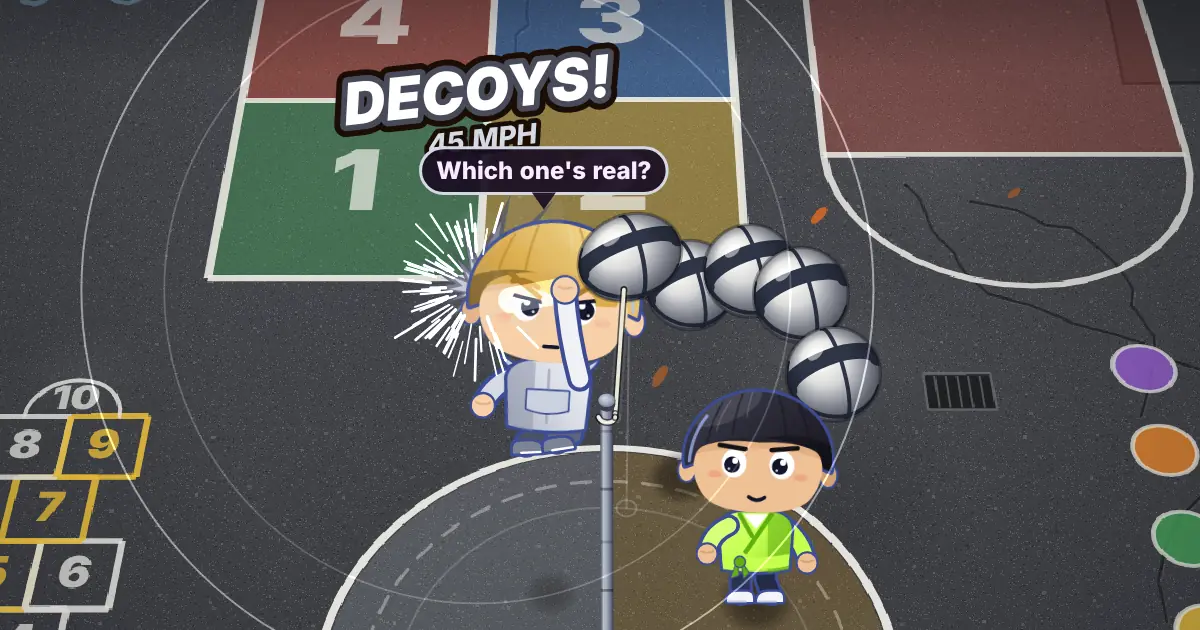
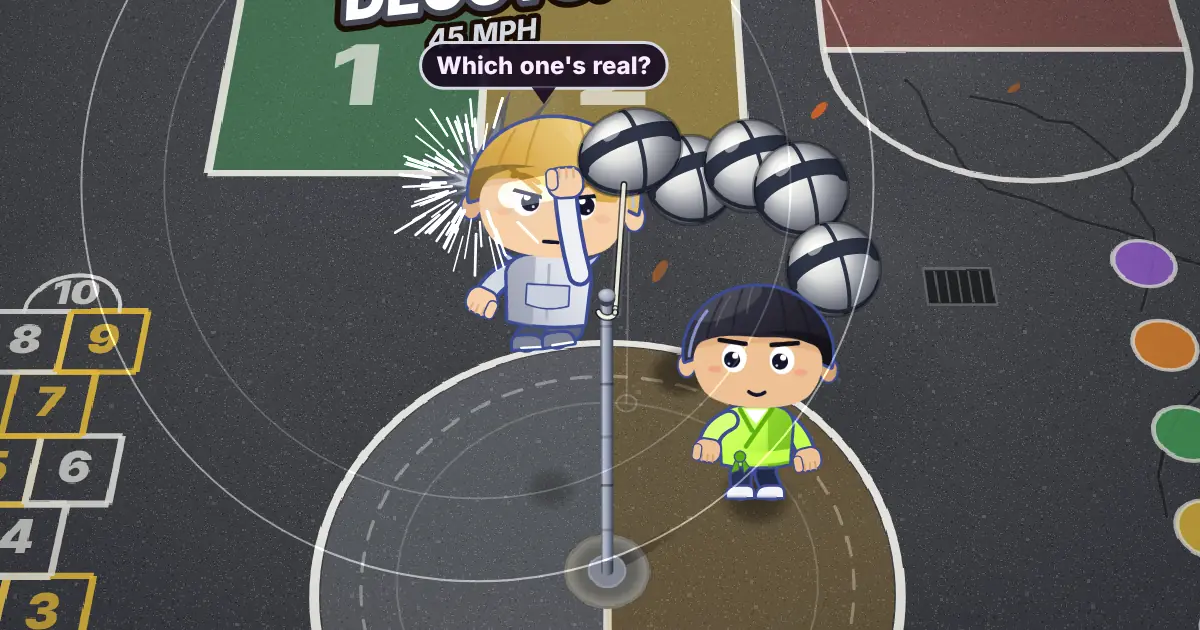
Tether Ball demo: no salute in any victory scene, and a real hand
Harper's victory flick put her arm out straight and raised, chin up,
which looked like a Nazi salute: she brushes her shoulder off now.
Adaeze's salute, Rei's held-out palm and Caleb's guard are reworked
too, and raised fists bow at the elbow. Every character's hand is a
squared fist wider than the wrist instead of a round ball with a
crease. The page is the vault's prod.html (PR #666), byte-identical,
and the four pictures are retaken with the new hands. No copy change.

Claude-Session: https://claude.ai/code/session_01WnTabX46DD64MD9gdE987u

diff --git a/public/games/tether-ball/index.html b/public/games/tether-ball/index.html
@@ -10247,19 +10247,29 @@ function createNinja(doc, look) {
   };
 
   // ───────────────────────── the rig, in sheet units ─────────────────────────
-  // limb(): the sheet's two-stroke capsule, shoulder → fist, bowed by `bend` (units, sideways)
+  // limb(): the sheet's two-stroke capsule, shoulder → fist, bowed by `bend` (units, sideways). Returns the line it ends on
+  // (radians), which the fist lies along.
   function limb(ctx, sx, sy, hx, hy, bend, col, w) {
     const dx = hx - sx, dy = hy - sy, d = Math.sqrt(dx * dx + dy * dy) || 1;
     const mx = (sx + hx) / 2 - (dy / d) * bend, my = (sy + hy) / 2 + (dx / d) * bend;
     ctx.beginPath(); ctx.moveTo(sx, sy); ctx.quadraticCurveTo(mx, my, hx, hy);
     ctx.strokeStyle = N.L; ctx.lineWidth = w + 7; ctx.stroke();
     ctx.strokeStyle = col; ctx.lineWidth = w; ctx.stroke();
+    return Math.atan2(hy - my, hx - mx);
   }
-  function fist(ctx, x, y, r, col, sh) {
-    ctx.beginPath(); ctx.ellipse(x, y, r, r, 0, 0, TAU);
-    ctx.lineWidth = 4; ctx.strokeStyle = N.L; ctx.stroke(); ctx.fillStyle = col || C.fist; ctx.fill();
-    ctx.beginPath(); ctx.moveTo(x - 6, y - 2.5); ctx.quadraticCurveTo(x, y + 0.5, x + 6, y - 2.5);
-    ctx.lineWidth = 2; ctx.strokeStyle = sh || C.fistS; ctx.stroke();
+  // A fist, along the arm's line a: squared and wider than the wrist, three finger lines at the knuckles, the thumb across the
+  // fingers on the side the arm turns toward (forward as it hangs, on top as it punches). r is its size (9.5 the rig's own).
+  // It was a round ball with a crease across it, which at the end of a long arm read as something else (Josh, 2026-10-22: "change
+  // the look of the fist or the hand for all the characters"). The cast kit draws the same hand (castkit.js fist).
+  let FIST = null; // its paths, in its own frame (x along the arm, y toward the thumb), made at the first draw
+  function fist(ctx, x, y, r, a, col, sh) {
+    if (!FIST) FIST = { body: H.rrect(-9, -13, 21, 25, 8.5), lines: new Path2D('M12 -7H5.5M12 -1.5H5.5M12 4H5.5'), thumb: H.rrect(-3, 6, 15, 7.5, 3.75) };
+    const k = r / 9.5;
+    ctx.save(); ctx.translate(x, y); ctx.rotate(a); if (k !== 1) ctx.scale(k, k);
+    ctx.lineWidth = 4; ctx.strokeStyle = N.L; ctx.stroke(FIST.body); ctx.fillStyle = col || C.fist; ctx.fill(FIST.body);
+    ctx.lineWidth = 2; ctx.strokeStyle = sh || C.fistS; ctx.stroke(FIST.lines);
+    ctx.lineWidth = 2.6; ctx.strokeStyle = N.L; ctx.stroke(FIST.thumb); ctx.fill(FIST.thumb);
+    ctx.restore();
   }
   function leg(ctx, hx, hy, ax, ay, knee, col) {
     const w = C.legW || 18;
@@ -10295,7 +10305,8 @@ function createNinja(doc, look) {
     ctx.lineCap = 'round'; ctx.lineJoin = 'round';
     ctx.save(); headFrame(ctx, P); look.tails(H, ctx, P); ctx.restore(); // the tails ride the head, behind everything
     if (art.back) blit(ctx, art.back);
-    limb(ctx, N.SH_B.x, N.SH_B.y, P.bx, P.by, P.bBend, C.armB, C.armW || 15); fist(ctx, P.bx, P.by, 9.5, C.fistB, C.fistBS);
+    const aw = C.armW || 15, hk = 9.5 * (aw / 15); // a thicker arm, a bigger hand (Big Ben's)
+    fist(ctx, P.bx, P.by, hk, limb(ctx, N.SH_B.x, N.SH_B.y, P.bx, P.by, P.bBend, C.armB, aw), C.fistB, C.fistBS);
     leg(ctx, N.HIP_B.x, N.HIP_B.y, P.rax, P.ray, P.rknee, C.legB); leg(ctx, N.HIP_F.x, N.HIP_F.y, P.lax, P.lay, P.lknee, C.legF);
     shoe(ctx, P.rax, P.ray, P.rrot); shoe(ctx, P.lax, P.lay, P.lrot);
     blit(ctx, art.torso);
@@ -10306,7 +10317,7 @@ function createNinja(doc, look) {
       ctx.strokeStyle = C.smear; ctx.lineWidth = 22; ctx.stroke();
       ctx.globalAlpha = 1; ctx.globalCompositeOperation = 'source-over';
     }
-    limb(ctx, N.SH_F.x, N.SH_F.y, P.fx, P.fy, P.fBend, C.armF, C.armW || 15); fist(ctx, P.fx, P.fy, 9.5 + 2 * P.smear);
+    fist(ctx, P.fx, P.fy, hk + 2 * P.smear, limb(ctx, N.SH_F.x, N.SH_F.y, P.fx, P.fy, P.fBend, C.armF, aw));
   }
   function frame(ctx, kx, ky, P) {
     ctx.setTransform(kx, 0, 0, ky, 0, 0);
@@ -10366,7 +10377,7 @@ function createNinja(doc, look) {
     // the scratch canvas is drawn over whole every time it is used (a flash, a glow, a clone): sized for what is asked, not the
     // room to grow, which costs every one of those draws half as much again (Kage's cost per frame went from 0.06–0.12 ms to
     // 0.21–0.45 ms with it)
-    if (ok && look.tint) { p = part(-34, -24, 294, 250, k * TINT_K, art.tint); if (p) art.tint = p; else ok = false; } // wide enough for a fist at full stretch
+    if (ok && look.tint) { p = part(-48, -24, 294, 250, k * TINT_K, art.tint); if (p) art.tint = p; else ok = false; } // wide enough for a fist at full stretch
     else if (!look.tint) { free(art.tint); art.tint = null; }
     if (!ok) { art.torso = null; art.k = 0; refused = RETRY; return false; } // (art.torso null: the whole bake again, next time)
     art.k = kb; art.key = key;
@@ -10635,7 +10646,17 @@ function leg(hx, hy, ax, ay, col, w = 18, knee = 3) {
   return ln(p, L, w + 6) + ln(p, col, w);
 }
 const shoe = (x, y, col = INK, s = 1) => `<g transform="translate(${x} ${y}) scale(${s})">${sp(SHOE, col, 5)}</g>`;
-const fist = (x, y, col = WRAP, sh = WRAP_S, r = 9.5) => se(x, y, r, r, col, 4) + ln(`M${x - 6} ${y - 2.5}Q${x} ${y + 0.5} ${x + 6} ${y - 2.5}`, sh, 2);
+// The line an arm ends on (degrees): the hand lies along it.
+const armAng = (sx, sy, hx, hy, bend) => { const dx = hx - sx, dy = hy - sy, d = Math.hypot(dx, dy) || 1; return f1(Math.atan2(hy - (sy + hy) / 2 - dx / d * bend, hx - (sx + hx) / 2 + dy / d * bend) * 180 / Math.PI); };
+const REST_F = armAng(73, 156, 50, 184, 10), REST_B = armAng(127, 156, 151, 193, -9);
+// A fist, along its arm's line a: squared and wider than the wrist, three finger lines at the knuckles, the thumb across the
+// fingers on the side the arm turns toward. Without a, a hand left of centre lies along the front arm at rest, else the back.
+// `over` is drawn on the hand under the thumb, in its own frame (x along the arm): a bandage. It was a round ball with a crease
+// across it, which at the end of a long arm read as something else (Josh, 2026-10-22, in Tether Ball: "change the look of the
+// fist or the hand for all the characters"). The game's rig draws the same hand (Tools/tether-ball/src/ninja.js fist).
+const fist = (x, y, col = WRAP, sh = WRAP_S, r = 9.5, a = x < 100 ? REST_F : REST_B, over = '') =>
+  `<g transform="translate(${x} ${y}) rotate(${a})${r !== 9.5 ? ` scale(${f1(r / 9.5)})` : ''}">`
+  + sr(-9, -13, 21, 25, 8.5, col, 4) + ln('M12 -7H5.5M12 -1.5H5.5M12 4H5.5', sh, 2) + over + sr(-3, 6, 15, 7.5, 3.75, col, 2.6) + '</g>';
 const rim = (op = 0.75, c = RIM) => ln(RIMP, c, 3.2, `opacity="${op}"`);
 const cheeks = (op = 0.5, c = BLUSH, y = 107) => el(57, y, 7, 3.4, c, `opacity="${op}"`) + el(143, y, 7, 3.4, c, `opacity="${op}"`);
 const brows = (bo = 78, bi = 84, c = INK, w = 5, curve = 0) => { const bm = (bo + bi) / 2 + curve; return ln(`M61 ${bo}Q74 ${bm} 87 ${bi}M139 ${bo}Q126 ${bm} 113 ${bi}`, c, w); };
@@ -10874,8 +10895,9 @@ function ninja(o) {
   const shoes = Object.assign({ type: 'tabi', col: INK, sole: P.straw[1] }, o.shoes);
   const sword = o.sword === null ? null : Object.assign({ handle: INK, wrap: RED, tsuba: GOLD, saya: '#3a1f2a' }, o.sword);
   const fx = Object.assign({ motif: '', motifF: '', back: '', headBack: '', overBody: '', onArm: '', overHead: '', overFace: '', heldB: '', heldF: '', front: '', top: '' }, o.fx);
-  const handArt = (x, y, k) => k === 'wrap' ? fist(x, y) : k === 'skin' ? fist(x, y, sk[0], sk[1]) : k === 'glove' ? fist(x, y, '#2b2733', '#17141c')
-    : k === 'none' ? '' : Array.isArray(k) ? fist(x, y, k[0], k[1]) : k;
+  const handArt = (a, k) => { const t = armAng(a.sx, a.sy, a.x, a.y, a.bend), r = 9.5 * a.w / 15, x = a.x, y = a.y; // a thicker arm, a bigger hand
+    return k === 'wrap' ? fist(x, y, WRAP, WRAP_S, r, t) : k === 'skin' ? fist(x, y, sk[0], sk[1], r, t) : k === 'glove' ? fist(x, y, '#2b2733', '#17141c', r, t)
+      : k === 'none' ? '' : Array.isArray(k) ? fist(x, y, k[0], k[1], r, t) : k; };
   const headShape = head === 'hood' ? HOOD : head === 'bald' ? HOOD : hair.cap === 'spiky' ? spikyCap(hair.spikes || 9, hair.cut) : hair.cap === 'full' ? HOOD : hairCap(hair.cut);
   // the sheet stacks everything into s; GAME sorts the same pieces into layers (put: onto the sheet, or onto a layer, or for a
   // layer of null onto the sheet alone)
@@ -10904,7 +10926,7 @@ function ninja(o) {
   // back arm
   armS += limb(aB.sx, aB.sy, aB.x, aB.y, aB.bend, aB.col, aB.w);
   if (aB.sleeve) armS += sleeve(aB.sx, aB.sy, aB.x, aB.y, aB.sleeve[0], aB.sleeve[1], aB.sleeveOpt);
-  armS += fx.heldB + handArt(aB.x, aB.y, aB.hand);
+  armS += fx.heldB + handArt(aB, aB.hand);
   // legs and feet (a long robe hides the legs)
   const robe = body.robe;
   if (legs.show && !robe) {
@@ -11020,7 +11042,7 @@ function ninja(o) {
   put('head', h);
   // front arm
   put(null, W + limb(aF.sx, aF.sy, aF.x, aF.y, aF.bend, aF.col, aF.w) + (aF.sleeve ? sleeve(aF.sx, aF.sy, aF.x, aF.y, aF.sleeve[0], aF.sleeve[1], aF.sleeveOpt) : '')
-    + fx.heldF + handArt(aF.x, aF.y, aF.hand) + We + fx.front + fx.motifF);
+    + fx.heldF + handArt(aF, aF.hand) + We + fx.front + fx.motifF);
   if (o.tone === 'kuroda' && !QUIET) put(null, ember(0.8, head === 'bare'));   // a bald head ends where a hood does, so it takes the hood's line
   if (!GAME) return s;
   // the colours the rig draws live: a hand's is its own (handCol) for a drawn one (a bandage, a sleeve), else what it is made of
@@ -11212,7 +11234,7 @@ const shorts = (col, dark) => sp('M67 194 Q100 202 133 194 L131 211 Q118 215 104
 const socks = (col = '#ffffff', stripe = null) => [85, 115].map((x) => sr(x - 9.5, 210, 19, 8, 3, col, 3) + (stripe ? ln(`M${x - 8} 213.5 H${x + 8}`, stripe, 2) : '')).join('');
 // a wrapped hand (a bandage over the knuckles): pass as a hand
 const bandHand = (x, y) => se(x, y, 9.8, 9.8, '#f6f3ea', 4) + ln(`M${x - 8} ${y - 3}L${x + 8} ${y + 1}M${x - 8} ${y + 3}L${x + 7} ${y + 6}M${x - 6} ${y - 7}L${x + 6} ${y - 5}`, '#d8d0bd', 1.6);
-const tapeHand = (x, y, sk, tape = '#f1f1ee') => fist(x, y, sk[0], sk[1]) + ln(`M${x - 8} ${y - 4}L${x + 8} ${y - 6}M${x - 8.5} ${y + 1}L${x + 8.5} ${y - 1}`, tape, 3.4);
+const tapeHand = (x, y, sk, tape = '#f1f1ee') => fist(x, y, sk[0], sk[1], 9.5, undefined, ln('M-4.5 -12V11M0.5 -12.5V11.5', tape, 3.4));
 
 // ── faces ──
 const ring = (cx, cy, rx, ry, col, w, fill = 'none', x = '') => `<ellipse cx="${cx}" cy="${cy}" rx="${rx}" ry="${ry}" fill="${fill}" stroke="${col}" stroke-width="${w}" ${x}/>`;
@@ -11880,7 +11902,7 @@ function defsFor(markup) {
 // has its own, inlined into it
 function forget(prefixes) { for (const k of [...DEFS.keys()]) if (prefixes.some((p) => k.startsWith(p))) DEFS.delete(k); }
 return { CAST, GROUPS, SPECIAL, SKINS, HAIRS, CREAM, P, INK, L, MOUTH, FRINGE, STAR, kid, layers, defsFor, forget, sp, se, sr, ln, fl, el, ci, f1, rot,
-  puffs, twinBuns, bob, curls, braids, pigtails, cowlick, glasses, freckles, bandaid, bow, buzz, lanyard, crown, mystery, tball,
+  limb, fist, armAng, puffs, twinBuns, bob, curls, braids, pigtails, cowlick, glasses, freckles, bandaid, bow, buzz, lanyard, crown, mystery, tball,
   afro, mohawk, hightop, locs, locTips, cornrows, quiff, twists, sideTail, wavy, shag };
 })();
 
@@ -14300,13 +14322,16 @@ function rosterPortrait(e, crop) {
 // The kids are drawn big-headed (the cast sheet's head covers x 20–180, y 20–150 of the rig's sheet), and the front arm is drawn
 // over the head, so a hand stays below the face or out past the head (x under 15, the elbow bowed outward); the back arm is drawn
 // behind, and shows only out past the head on its side (x over 185) or below it.
+// No arm is held out straight in front and raised: Harper's flick of the hand did that, and it looked like a Nazi salute (Josh,
+// 2026-10-22). A raised fist is bowed at the elbow (FIST_UP), a point goes down at the one they beat, and an arm only passes
+// through level in a swing or a punch, never stays there.
 const VICTORY = (() => {
   const s = Math.sin, c = Math.cos, ab = Math.abs, TAU = Math.PI * 2, L = (a, b, k) => a + (b - a) * k;
   const cl = (x) => (x < 0 ? 0 : x > 1 ? 1 : x), ease = (x) => { x = cl(x); return x * x * (3 - 2 * x); };
   const pulse = (u, a, b) => (u >= a && u < b ? s((Math.PI * (u - a)) / (b - a)) : 0); // 0 → 1 → 0 between a and b
   const arms = (P, fx, fy, fb, bx, by, bb) => { P.fx = fx; P.fy = fy; P.fBend = fb; P.bx = bx; P.by = by; P.bBend = bb; };
   const crossed = (P) => arms(P, 116, 164, -10, 86, 160, -9); // arms folded across the chest (kage.js's CROSS)
-  const FIST_UP = [6, 58, -28], BACK_UP = [194, 58, 28], HIP_F = [64, 196, 18], HIP_B = [136, 196, -18];
+  const FIST_UP = [8, 56, -36], BACK_UP = [192, 56, 36], HIP_F = [64, 196, 18], HIP_B = [136, 196, -18];
   const blendF = (P, a, b, k) => { P.fx = L(a[0], b[0], k); P.fy = L(a[1], b[1], k); P.fBend = L(a[2], b[2], k); };
   const blendB = (P, a, b, k) => { P.bx = L(a[0], b[0], k); P.by = L(a[1], b[1], k); P.bBend = L(a[2], b[2], k); };
   return {
@@ -14321,23 +14346,25 @@ const VICTORY = (() => {
       },
       up: (u) => { const q = u % 1.9; return q < 0.6 ? 0.12 * s((Math.PI * q) / 0.6) : 0; },
     },
-    // Milo, future King of the Pole: up on his toes, a finger to the sky (number one), then his arms spread wide, chin up: all his
+    // Milo, future King of the Pole: up on his toes, a fist to the sky (number one), then his arms spread wide, chin up: all his
     milo: {
       pose(P, u, rt) {
         const q = u % 2.2, b = ab(s(u * 6)), w = ease((q - 1.1) / 0.2) * (1 - ease((q - 2.0) / 0.2));
         P.face = 'happy'; P.lift = 0.5;
-        blendF(P, [2, 34, -30], [-6, 166, 4], w); blendB(P, HIP_B, [206, 166, -4], w);
+        blendF(P, [8, 42, -44], [-6, 166, 4], w); blendB(P, HIP_B, [206, 166, -4], w);
         P.headTilt += -0.09 * w + s(u * 3) * 0.03 * (1 - w);
         P.lay -= 5 * b; P.ray -= 5 * b; P.lknee += 3 * b; P.rknee += 3 * b;
       },
       up: (u) => 0.05 * ab(s(u * 6)),
     },
-    // Emma, who practises alone: her swing again, slow and exact, the way she drills it, and a small nod at how it went
+    // Emma, who practises alone: her swing again, slow and exact, the way she drills it, the arm dropping back to her side after
+    // it, and a small nod at how it went
     emma: {
       pose(P, u, rt) {
-        const q = u % 2.4, sw = ease((q - 0.2) / 1.0), nod = pulse(q, 1.45, 1.9);
+        const q = u % 2.4, wind = ease(q / 0.2), sw = ease((q - 0.2) / 1.0), drop = ease((q - 1.25) / 0.35), nod = pulse(q, 1.45, 1.9);
+        const hx = L(150, -4, sw), hy = L(178, 160, sw) + 10 * s(Math.PI * sw), hb = L(-14, 6, sw);
         P.face = nod > 0.2 ? 'happy' : 'open'; P.lift = 0.3;
-        arms(P, L(150, -6, sw), L(178, 152, sw) + 10 * s(Math.PI * sw), L(-14, 6, sw), 146, 190, -10);
+        arms(P, L(L(52, hx, wind), 52, drop), L(L(186, hy, wind), 186, drop), L(L(10, hb, wind), 10, drop), 146, 190, -10);
         P.tilt += -P.mir * 0.05 * s(Math.PI * sw); P.lknee += 6 * s(Math.PI * sw);
         P.headDy += 5 * nod; P.headTilt += 0.04 * nod;
       },
@@ -14390,15 +14417,17 @@ const VICTORY = (() => {
       up: () => 0,
     },
     // Harper, not here for friends: arms folded, chin up and her head turned from you, powering up and staying lit; now and then
-    // a flick of the hand, done with you
+    // she brushes her shoulder off, twice, done with you. (It was a flick of the hand out in front of her, the arm straight and
+    // raised, and it looked like a Nazi salute: Josh, 2026-10-22. No celebration holds an arm out straight and raised.)
     harper: {
       hold: true,
       pose(P, u, rt) {
-        const q = u % 3, fl = pulse(q, 1.9, 2.35);
+        const q = u % 3, up = ease((q - 1.75) / 0.18) * (1 - ease((q - 2.6) / 0.2));
+        const br = q >= 1.95 && q < 2.55 ? Math.max(0, s((TAU * (q - 1.95)) / 0.3)) : 0; // two flicks off the shoulder
         P.face = 'fierce'; P.wind = 0.6 + 0.3 * s(rt * 3); P.lift = 0.6;
         crossed(P);
-        if (fl > 0) blendF(P, [116, 164, -10], [-6, 136, 10], fl);
-        P.headTilt -= 0.12; P.tilt += P.mir * 0.05; P.lax = 92; P.rax = 124; P.rrot = 0.12; P.sqy *= 1 + 0.008 * s(rt * 2);
+        if (up > 0) blendF(P, [116, 164, -10], [L(126, 168, br), L(150, 172, br), L(12, 16, br)], up); // her hand at her far shoulder
+        P.headTilt -= 0.12 + 0.04 * up; P.tilt += P.mir * 0.05; P.lax = 92; P.rax = 124; P.rrot = 0.12; P.sqy *= 1 + 0.008 * s(rt * 2);
       },
       up: () => 0,
     },
@@ -14407,19 +14436,21 @@ const VICTORY = (() => {
       pose(P, u, rt) {
         const q = u % 2.4, k = ease((q - 1.1) / 0.18) * (1 - ease((q - 2.2) / 0.2));
         P.face = q < 0.5 ? 'open' : 'happy'; P.lift = 0.4;
-        blendF(P, [14, 112 + (q < 0.6 ? 2 * s(q * 18) : 0), -24], [-10, 150, 0], k);
+        blendF(P, [14, 112 + (q < 0.6 ? 2 * s(q * 18) : 0), -24], [-6, 172, 6], k); // the point: down at the one she beat, on their knees
         P.bx = 146; P.by = 192; P.bBend = -8;
         P.headTilt += 0.14 + s(rt * 0.9) * 0.02;
       },
       up: () => 0,
     },
-    // Adaeze, the cool customer: one hand on her hip, the shadow still on her; two fingers to her brow and away, a salute, unbothered
+    // Adaeze, the cool customer: one hand on her hip, the shadow still on her; one slow cut through the air with the other hand,
+    // from her far shoulder down to her front hip, as her Shadow Cut goes, and back to the hip, unbothered. (It was two fingers to
+    // her brow and out, a salute, which left the arm straight out and raised: Josh, 2026-10-22, on Harper's.)
     adaeze: {
       hold: true,
       pose(P, u, rt) {
-        const q = u % 2.8, to = ease((q - 0.9) / 0.25), off = ease((q - 1.5) / 0.2), back = ease((q - 2.3) / 0.35);
+        const q = u % 2.8, up = ease((q - 0.8) / 0.3), cut = ease((q - 1.25) / 0.3), back = ease((q - 2.1) / 0.4);
         P.face = q > 1.5 && q < 2.4 ? 'happy' : 'fierce'; P.lift = 0.5; P.wind = 0.5;
-        blendF(P, HIP_F, [16, 96, -24], to); if (off > 0) blendF(P, [16, 96, -24], [-14, 82, -30], off); if (back > 0) blendF(P, [-14, 82, -30], HIP_F, back);
+        blendF(P, HIP_F, [118, 152, 14], up); if (cut > 0) blendF(P, [118, 152, 14], [26, 200, 8], cut); if (back > 0) blendF(P, [26, 200, 8], HIP_F, back);
         P.bx = 124; P.by = 190; P.bBend = -6; // the other behind her
         P.headTilt -= 0.06; P.tilt += P.mir * 0.03; P.headDy += 2 * ab(s(u * 1.6));
       },
@@ -14447,26 +14478,27 @@ const VICTORY = (() => {
       },
       up: (u) => 0.2 * ab(s(u * Math.PI * 2.2)),
     },
-    // Caleb, Jackson's crew and quiet: down in a fighter's guard, the front fist out at the one he beat, the back one cocked at his
-    // hip, the power building in him and staying; a single nod
+    // Caleb, Jackson's crew and quiet: down in a fighter's guard, the front fist up by his chin with the elbow down, the back one
+    // cocked at his hip, the power building in him and staying; a single nod
     caleb: {
       hold: true,
       pose(P, u, rt) {
         const q = u % 2.6, nod = pulse(q, 1.6, 2.0);
         P.face = 'fierce'; P.lift = 0.5; P.wind = 0.4;
-        arms(P, 14, 166, 6, 150, 190, -14);
+        arms(P, 30, 152, -16, 150, 190, -14);
         P.lax = 62; P.lay = 218; P.lknee = 12; P.rax = 136; P.ray = 220; P.rknee = -10; P.y += 5 * P.s; P.tilt += -P.mir * 0.05;
         P.x += s(rt * 61) * 0.9 * P.s; P.headDy += 4 * nod + 2;
       },
       up: () => 0,
     },
-    // Rei, the silent champion: one hand behind her back, as ever; a small bow, then the other hand rising, palm up, in the light
+    // Rei, the silent champion: one hand behind her back, as ever; a small bow, then the other hand to her heart, in the light.
+    // (Her hand used to rise out in front of her, palm up, and was held there: an arm held out, which this rig can't open.)
     rei: {
       hold: true,
       pose(P, u, rt) {
-        const q = u % 3.4, bow = pulse(q, 0.1, 1.1), rise = ease((q - 1.3) / 0.6) * (1 - ease((q - 3) / 0.4));
+        const q = u % 3.4, bow = pulse(q, 0.1, 1.1), rise = ease((q - 1.3) / 0.5) * (1 - ease((q - 3) / 0.4));
         P.face = 'open'; P.lift = 0.6; P.wind = 0.3 + 0.2 * s(rt * 1.2);
-        arms(P, L(52, -8, rise), L(188, 140, rise), L(6, -10, rise), 124, 188, -6);
+        arms(P, L(52, 102, rise), L(188, 168, rise), L(6, 14, rise), 124, 188, -6);
         P.tilt += -P.mir * 0.16 * bow; P.headTilt -= 0.12 * bow; P.headDy += 3 * bow;
         P.sqy *= 1 + 0.01 * s(rt * 1.1); P.headTilt += 0.03;
       },
@@ -17111,6 +17143,7 @@ function createMenu(doc, opts) {
     get storyMatch() { return SM; },
     get arcade() { return AR; }, arcadeStart, arcadeNext, // the arcade (tests)
     victory: { VICTORY, of: victoryOf, glow: finaleGlow, pal: finalePal, own: FINALE_OWN }, // the victory scenes and their colours (tests)
+    kit: CASTKIT, // the cast kit (tests: its hand)
     // advance the school by ms in 1/60 s frames (drawing the last), as the frame loop does while you walk it
     storyAdvance(ms) { const n = Math.max(1, Math.round(ms / 16.667)); for (let i = 0; i < n; i++) story.frame(1 / 60, i < n - 1); },
     musicWanted, // the track the music should be on now (see above)
